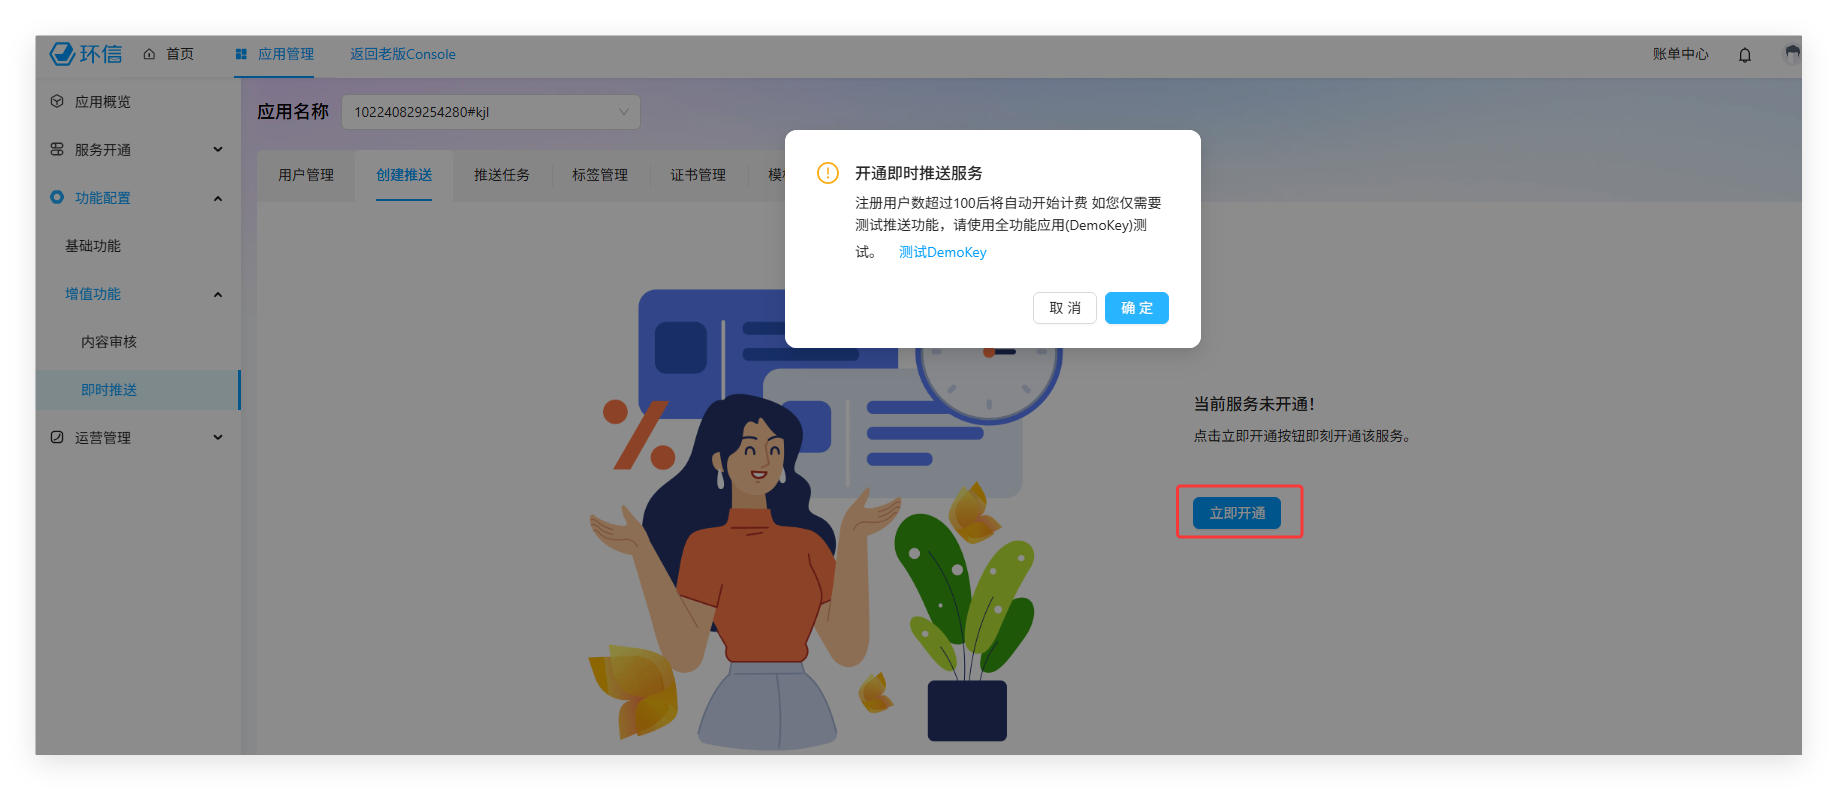
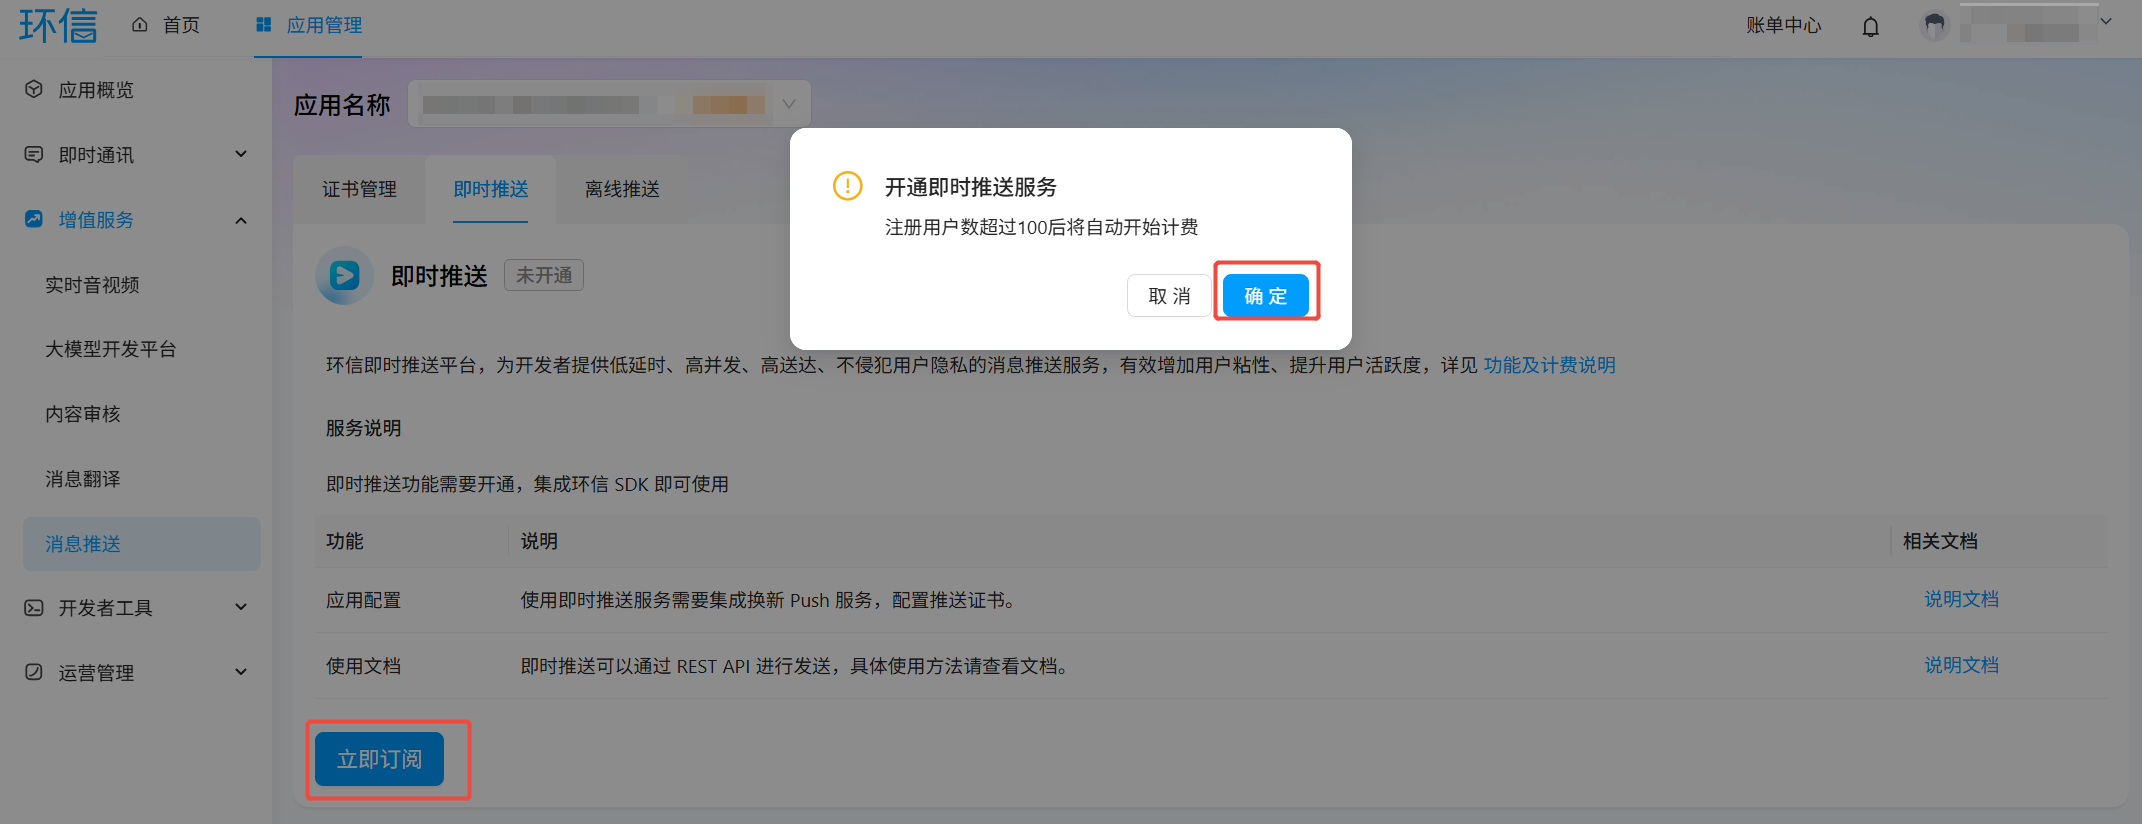
Modify Push Docs

diff --git a/docs/.vuepress/sidebar/push.ts b/docs/.vuepress/sidebar/push.ts
@@ -1,7 +1,5 @@
 export const PUSH_SIDEBAR = [
     { text: '产品概述', link: 'push_overview.html' },
-    { text: '产品动态', link: 'push_dynamics.html' },
-    { text: '全球化部署', link: 'push_global_deployment.html' },
     {
       text: '计费说明',
       collapsible: true,
@@ -14,11 +12,11 @@ export const PUSH_SIDEBAR = [
       text: '快速入门',
       collapsible: true,
       children: [
-        { text: '创建产品及应用', link: 'push_createproduct_app.html' },
+        { text: '开通服务', link: 'push_activate.html' },
+        { text: '证书配置', link: 'push_certificate_config.html' },
         { text: '创建推送', link: 'push_task_create.html' },
         { text: '推送任务', link: 'push_task.html' },
         { text: '标签管理', link: 'push_tag_mgmt.html' },
-        { text: '证书配置', link: 'push_certificate_config.html' },
         { text: '数据统计', link: 'push_statistics.html' },
       ]
     },

diff --git a/docs/value-added/push/push_overview.md b/docs/value-added/push/push_overview.md
@@ -1,50 +1,56 @@
-# 产品概述
+# 即时推送服务介绍
 
-环信即时推送平台，定位于为开发者提供低延时、高送达、高并发、不侵犯用户个人数据的即时推送服务。有效提升活跃度，增加用户粘性，实现业务增长。
+## 服务简介
 
-## 1、应用场景
+环信即时推送服务，致力于为开发者提供高效、稳定、安全的消息触达能力。
 
-**系统消息通知**
-当APP用户相关状态或者系统功能状态变化时候（如好友添加通知、外卖到达通知、预约成功通知等），需要及时告知用户，促使用户完成特定操作，提升用户体验。
+依托低延时、高送达、高并发的服务优势，帮助企业在系统通知、营销活动、内容分发等场景中，实现更精准、更及时的用户连接，持续提升活跃度与业务增长效率。
 
-**活动促销营销**
-产品推广和营销活动（如游戏活动、618电商节、双十一等），通过对目标用户进行定向通知栏消息，吸引用户消费，从而提升最终营销活动转化效果。
+## 服务特性
 
-**运营促活推送**
-针对不同类型、不同活跃周期的用户，需要进行不同的运营推送促活，如对新用户推送产品引导、对流失用户召回，通过定向主动地进行消息推送，提升次日留存，最终实现活跃用户的增长。
+**高效触达，稳定可靠**
+具备低延时、高送达、高并发的服务能力，支持毫秒级消息触达；在线消息送达率高达 99.99%，为业务稳定运行提供有力保障。
 
-**社交互动通知**
-通常即时通讯服务中天然具备社交属性，人与人沟通产生的分享、点赞、抢红包行为出现时，针对未打开应用的用户进行推送提醒，能有效提升用户互动频次，增强社交愉悦感。
+**一站式集成，接入便捷**
+集成一套 IM SDK，即可同时获得即时通讯与推送能力，显著降低接入门槛，缩短开发周期，加速业务上线。
 
-**内容订阅推送**
-内容、资讯、视频类 App 需要对读者主动推送用户关注的内容或者热点资讯，可以帮助用户快速获取最新、最热门的信息，同时提升 App 打开率，增加内容消费度，提升用户活跃。
+**安全合规，无痕推送**
+环信专注于提供专业的推送服务，SDK 不采集用户隐私数据，符合相关数据安全与隐私合规要求，让企业接入更安心、运营更放心。
 
-## 2、产品功能
+**全程加密，通信无忧**
+采用私有二进制通信协议，对数据传输过程进行全链路加密，全面保障消息传输安全。
 
-**多通道厂商下发**
-覆盖谷歌、华为、小米、魅族、OPPO、vivo等主流手机厂商通道，iOS双证书支持，合力提升全平台消息送达率，省时省心。
+**专业服务，全程支持**
+提供专业技术支持与服务保障，快速响应客户需求，协助开发者高效完成接入、运营与问题排查。
 
-**多维度推送统计**
-便捷易用的后台界面，无需自行开发，即可完成创建推送、用户管理、推送查看、数据分析全套推送服务，有效提升活跃度，增加用户粘性，实现业务增长。
+## 核心功能
 
-**便捷灵活开放平台**
-提供REST接口发送推送，满足灵活使用的需求，轻松实现业务自动触发推送。
+**多厂商通道覆盖**
+支持 Google、华为、小米、魅族、OPPO、vivo 等主流手机厂商通道，并支持 iOS 双证书配置，全面提升多平台消息送达能力。
 
-## 3、产品特性
+**推送管理与数据分析**
+提供便捷易用的推送管理后台，无需额外开发，即可完成推送创建、用户管理、推送查看与数据分析，帮助企业提升推送运营效率。
 
-**集成便捷**
-集成一套 IM SDK 即可支持即时通讯能力，以及推送运营能力。
+**开放灵活的接口能力**
+提供 REST 接口，支持灵活发起推送任务，轻松实现业务消息自动触发，满足多样化业务场景需求。
 
-**极速、稳定、可靠的服务性能**
-低延时、高送达、高并发，毫秒级触达目标用户，在线消息保证99.99%送达率；
-私有二进制通信协议实现数据传输的全程加密，确保通信安全。
-
-**数据安全合规**
-环信推送服务聚焦于提供专业的推送服务，SDK 不采集任何用户隐私数据，致力于做干净的推送工具，符合工信部数据隐私协议，让您不再为数据隐私安全发愁。
-
-**专业技术支持**
-有专业的技术支持团队，及时响应客户的需求和问题。
-
-## 4、发送流程
+## 发送流程
 
 [![img](https://docs-im.easemob.com/_media/playground/push/apppush/%E6%8E%A8%E9%80%81%E6%B5%81%E7%A8%8B%E5%9B%BE.png?w=800&tok=99b90d)](https://docs-im.easemob.com/_detail/playground/push/apppush/推送流程图.png?id=push%3Aapppush%3Aintroducton)
+
+## 应用场景
+
+**系统消息通知**
+适用于好友通知、订单提醒、预约结果、服务变更等场景，帮助企业第一时间将关键信息传递给用户，提升服务体验与转化效率。
+
+**营销活动触达**
+适用于促销活动、节日营销、限时福利、品牌推广等场景，通过精准触达目标用户，提升活动参与度与营销转化效果。
+
+**用户运营促活**
+面向新用户引导、沉默用户召回、活跃用户维护等场景，支持更精细化的用户运营策略，助力提升留存与活跃增长。
+
+**社交互动提醒**
+在点赞、评论、分享、红包、私信等社交互动场景中，及时提醒未打开应用的用户，增强互动频次与产品黏性。
+
+**内容订阅分发**
+适用于资讯、内容、视频等业务场景，可向用户及时推送关注内容与热门信息，提升打开率、阅读量与内容消费活跃度。

diff --git a/docs/value-added/push/push_task_create.md b/docs/value-added/push/push_task_create.md
@@ -5,19 +5,12 @@
 - 通知消息：指定通知标题和内容后，环信 SDK 会自动处理，在系统通知栏中以通知栏消息的形式展示，同时响铃或震动提醒用户。
 - 透传消息：即自定义消息，客户自行定义消息体格式。环信只传递透传消息，不做任何处理，客户端接收到透传消息后需自行处理，如通知栏展示、弹框等。
 
-## 开通服务
-
-创建推送任务前，你需在 [环信控制台](https://console.easemob.com/user/login) 开通即时推送服务：
+你可以在 [环信控制台](https://console.easemob.com/user/login) 创建推送任务：
 
 1. 登录 [环信控制台](https://console.easemob.com/user/login)。
 2. 选择页面上方的 **应用管理**。在弹出的应用列表页面，单击你的应用的 **操作** 栏中的 **管理**。
-3. 在左侧导航栏，选择 **增值功能** > **即时推送**。
-4. 选择 **创建推送** 页签，点击 **立即开通**。
-5. 在弹出的确认框中选择 **确定**，开通即时推送服务。
-   
-   若仅需测试推送功能，请使用全功能应用 `Demo`，在对话框中点击 **测试DemoKey**。
-
-![img](/images/console/push_task_create.png)
+3. 在左侧导航栏，选择 **运营管理** > **推送管理**。
+4. 在 **创建已推送** 页面创建通知消息和透传消息的推送任务。
 
 ## 通知消息
 

diff --git a/docs/value-added/push/push_activate.md b/docs/value-added/push/push_activate.md
@@ -1,0 +1,11 @@
+# 开通服务
+
+使用即时推送服务前，你需在 [环信控制台](https://console.easemob.com/user/login) 开通：
+
+1. 登录 [环信控制台](https://console.easemob.com/user/login)。
+2. 选择页面上方的 **应用管理**。在弹出的应用列表页面，单击你的应用的 **操作** 栏中的 **管理**。
+3. 在左侧导航栏，选择 **增值功能** > **消息推送**。
+4. 选择 **即时推送** 页签，点击 **立即订阅**。
+5. 在弹出的确认框中选择 **确定**，开通即时推送服务。
+
+![img](/images/console/push_task_create.png)
